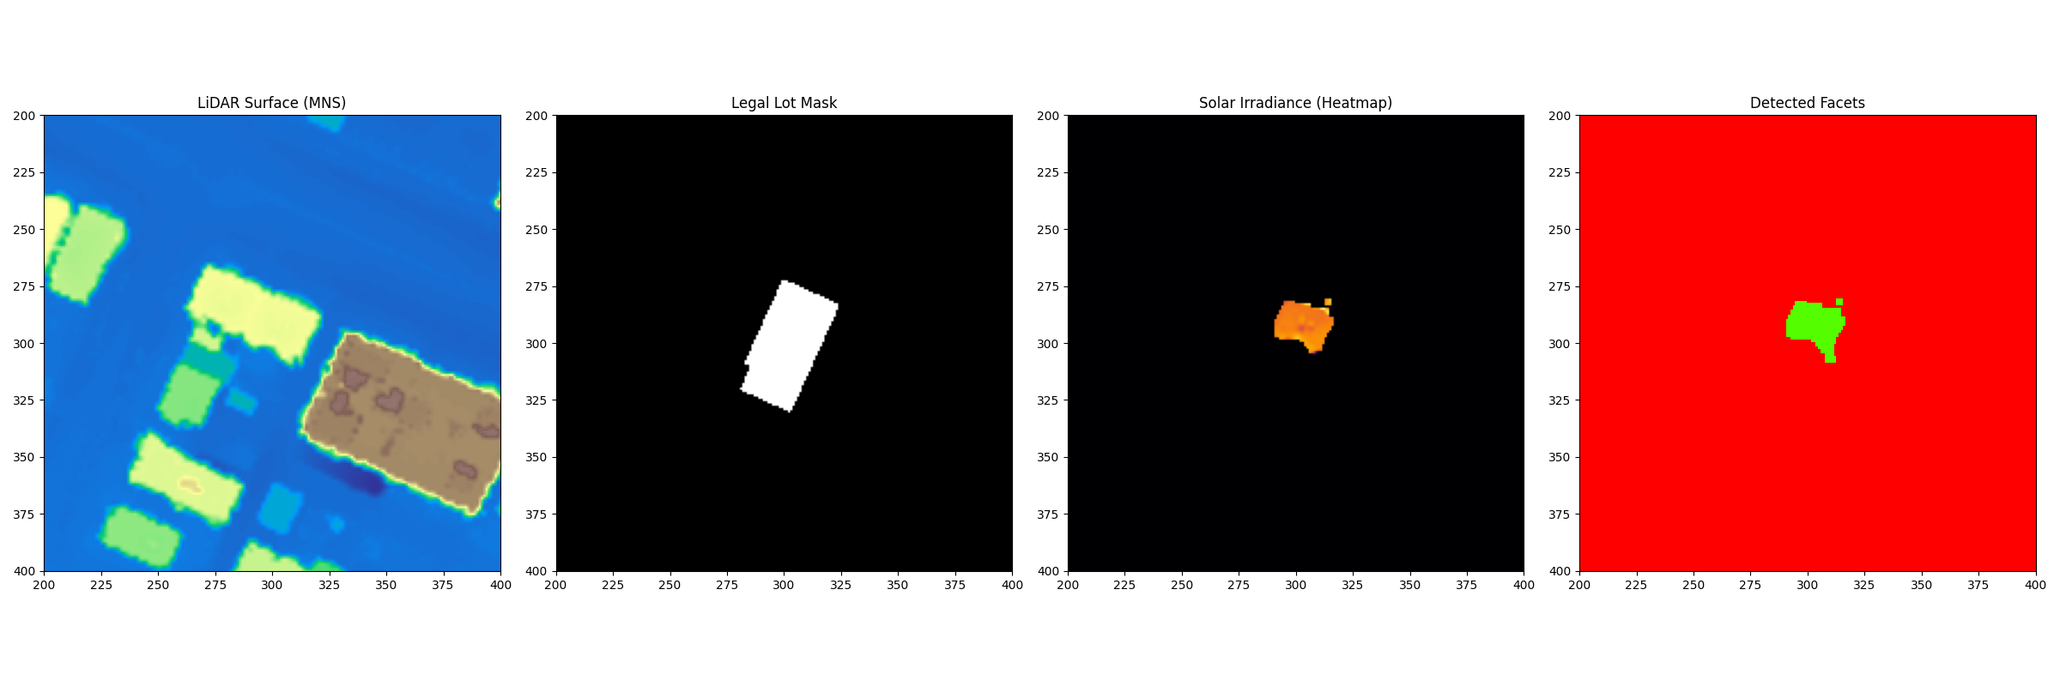
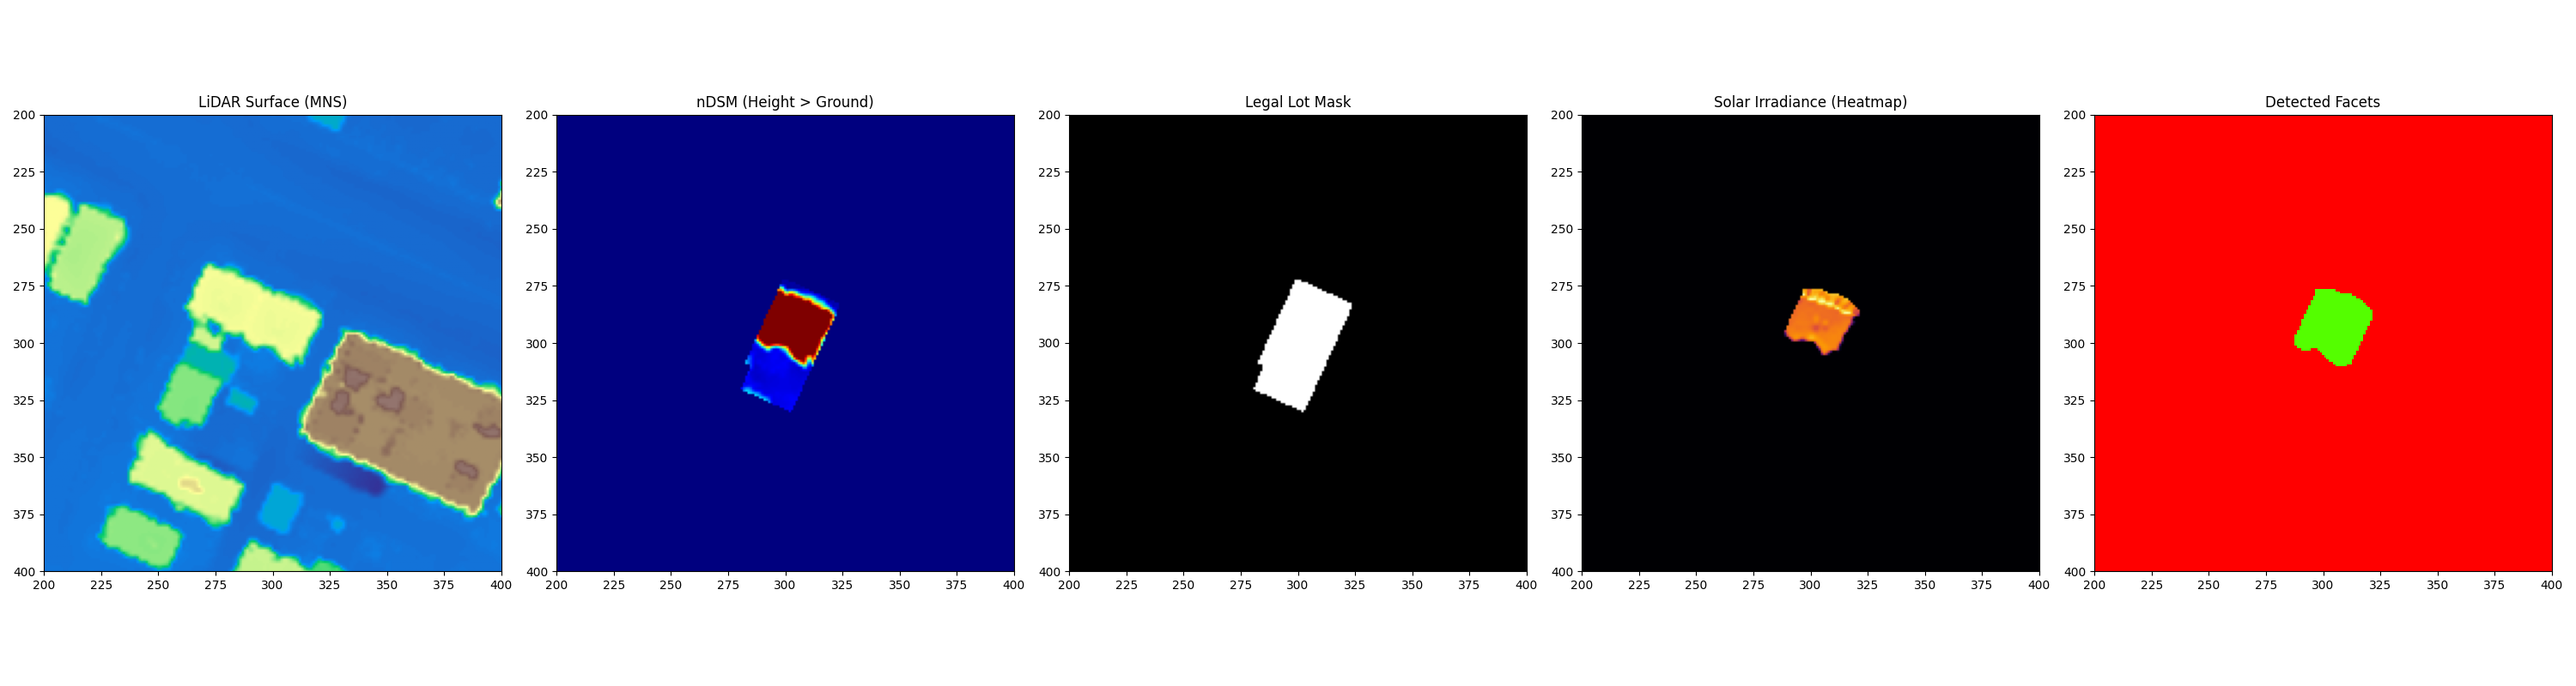
push

diff --git a/backend/app/services/solar_engine.py b/backend/app/services/solar_engine.py
@@ -73,84 +73,105 @@ class SolarEngine:
         
         return nx, ny, nz, slope
 
+    def _estimate_terrain(self, mns_grid, window_size_meters=30):
+        """
+        Creates a 'Rolling Ball' Digital Terrain Model (DTM).
+        This ignores houses and finds the underlying ground, even on slopes.
+        """
+        # Convert meters to pixels (e.g. 30m / 0.5m = 60 pixels)
+        pixels = int(window_size_meters / (self.raw_resolution / self.upsample_factor))
+        
+        # 1. Minimum Filter (Erosion): Finds the lowest pixel in the neighborhood
+        rough_terrain = scipy.ndimage.minimum_filter(mns_grid, size=pixels)
+        
+        # 2. Gaussian Filter: Smooths the blocky erosion artifacts
+        smooth_terrain = gaussian_filter(rough_terrain, sigma=pixels/4)
+        
+        return smooth_terrain
+
     def segment_solar_facets(self, mns, mnt, lot_mask):
         """
-        SCIENTIFIC SEGMENTATION (IMPROVED):
-        Optimized for coverage on both Flat (Montreal) and Pitched roofs.
+        FINAL STRATEGY: 'Seed & Grow' with Lot Constraints.
+        1. SEED: Find the safe, smooth center of the roof.
+        2. CONSTRAINT: Use Lot Mask + nDSM Height as strict walls.
+        3. GROW: Flood-fill the Seed until it hits the Constraint.
         """
-        # 1. Super-Resolution (Bilinear to preserve planar geometry)
+        # --- 1. UPSAMPLING & TERRAIN ---
+        # Upsample 1m -> 0.5m for better edge resolution
         mns_high = zoom(mns, self.upsample_factor, order=1)
-        mnt_high = zoom(mnt, self.upsample_factor, order=1)
         
-        # Resize lot mask (Nearest Neighbor to keep it sharp boolean)
-        if lot_mask is not None and lot_mask.shape != mns_high.shape:
-            lot_mask_high = zoom(lot_mask, self.upsample_factor, order=0)
+        # Dynamic Terrain (Fixes the "2.5m" hill issue)
+        mnt_high = self._estimate_terrain(mns_high, window_size_meters=30)
+        
+        # Upsample the Lot Mask (Nearest Neighbor to keep it sharp)
+        if lot_mask is not None:
+            if lot_mask.shape == mns_high.shape:
+                lot_mask_high = lot_mask
+            else:
+                lot_mask_high = zoom(lot_mask, self.upsample_factor, order=0)
         else:
-            lot_mask_high = lot_mask if lot_mask is not None else np.ones_like(mns_high, dtype=bool)
+            lot_mask_high = np.ones_like(mns_high, dtype=bool)
 
         cell_size = self.raw_resolution / self.upsample_factor
 
-        # 2. Physics Calculations
-        nx, ny, nz, slope = self.calculate_derivatives(mns_high, cell_size)
+        # --- 2. PHYSICS CALCS ---
+        # True Height above ground
         ndsm = mns_high - mnt_high
         ndsm = np.nan_to_num(ndsm, nan=0)
         
-        # 3. DEFINING A "ROOF" (Heuristic Filtering)
+        # STRICT MASKING: We only care about the lot's nDSM
+        # This zeros out neighbors so they don't appear in debug or logic
+        ndsm = ndsm * lot_mask_high
         
-        # A. Height Filter: Lowered slightly to catch garages/sheds
-        is_elevated = ndsm > 2.0 
-        
-        # B. Slope Filter (CRITICAL FIX): 
-        # Allow Flat Roofs (0 deg) up to steep roofs (75 deg = 1.3 rad)
-        # We REMOVED the lower bound (> 0.08) because Montreal has flat roofs!
-        is_roof_slope = slope < 1.3 
-        
-        # C. Roughness Filter (Relaxed):
-        # We relax the threshold from 0.05 to 0.12 to allow for shingles/chimneys
+        # Geometry
+        nx, ny, nz, slope = self.calculate_derivatives(mns_high, cell_size)
+
+        # --- 3. THE "SEED" (High Confidence) ---
+        # Find the "Soft Center" of the roof. We can be very strict here.
+        # It must be Flat-ish and Smooth to avoid trees.
         roughness = scipy.ndimage.generic_filter(nz, np.std, size=3)
-        is_smooth = roughness < 0.12
+        
+        is_high_enough = ndsm > 1.5  # 1.5m allows for sheds/decks
+        is_smooth_core = roughness < 0.12
+        is_flat_core = slope < 1.3
+        
+        seeds = is_high_enough & is_smooth_core & is_flat_core & lot_mask_high
+        
+        # DEBUG: Store for visualization/stats
+        self.last_is_elevated = is_high_enough
+        self.last_is_roof_slope = is_flat_core
+        self.last_is_smooth = is_smooth_core
+        self.last_viable_pixels = seeds
 
-        # Combine Filters
-        viable_pixels = is_elevated & is_roof_slope & is_smooth & lot_mask_high
+        # --- 4. THE "POTENTIAL" (The Container) ---
+        # This defines the maximum possible extent of the roof.
+        # It MUST be high, and it MUST be inside the lot.
+        # We don't care about roughness here (edges are rough).
+        potential_mask = (ndsm > 1.5) & lot_mask_high
 
-        # 4. MORPHOLOGICAL CLEANUP (The "Fill" Strategy)
-        # You need to import these at the top of your file:
-        # from scipy.ndimage import binary_closing, binary_fill_holes, binary_opening
+        # --- 5. GROWTH LOOP (Geodesic Reconstruction) ---
+        # Grow the Seeds until they hit the walls of 'potential_mask'
+        structure = generate_binary_structure(2, 2)
+        grown_mask = seeds.copy()
         
-        # Step A: CLOSING (Connect gaps)
-        # This joins pixels that are close together, fixing the "swiss cheese" effect
-        structure = generate_binary_structure(2, 2) # 8-connectivity
-        closed_mask = scipy.ndimage.binary_closing(viable_pixels, structure=structure, iterations=2)
-        
-        # Step B: FILL HOLES (Solidify)
-        # If we have a ring of valid pixels (e.g., roof edges), fill the inside
-        filled_mask = scipy.ndimage.binary_fill_holes(closed_mask)
-        
-        # Step C: OPENING (Only NOW do we remove noise)
-        # Remove tiny specks that are definitely not roofs
-        clean_mask = scipy.ndimage.binary_opening(filled_mask, structure=structure, iterations=1)
-        
-        # 5. CONNECTED COMPONENTS
-        labeled_facets, num_features = label(clean_mask)
-        
-        # Filter tiny fragments (< 1.5m^2)
-        # 1 pixel = 0.5 * 0.5 = 0.25m^2. So 6 pixels.
-        min_pixels = 6
-        final_mask = np.zeros_like(clean_mask)
-        
-        component_sizes = np.bincount(labeled_facets.ravel())
-        if len(component_sizes) > 1:
-            valid_labels = np.where(component_sizes > min_pixels)[0]
-            valid_labels = valid_labels[valid_labels > 0] # Exclude background
+        # Iterative Dilation
+        # We assume a max growth of ~40 pixels (20m), which covers most huge roofs.
+        for _ in range(40): 
+            dilated = scipy.ndimage.binary_dilation(grown_mask, structure=structure)
             
-            if len(valid_labels) > 0:
-                final_mask = np.isin(labeled_facets, valid_labels)
+            # The Magic Line: Clip growth to the Lot & Height immediately
+            new_mask = dilated & potential_mask 
+            
+            if np.array_equal(new_mask, grown_mask):
+                break
+            grown_mask = new_mask
 
-        # 6. Edge Cleanup
-        # If the mask spills over the lot line due to 'Closing', re-apply the lot_mask
-        final_mask = final_mask & lot_mask_high
+        # --- 6. CLEANUP ---
+        # Fill holes (skylights) and remove speckles
+        final_mask = scipy.ndimage.binary_fill_holes(grown_mask)
+        final_mask = scipy.ndimage.binary_opening(final_mask, structure=structure, iterations=1)
 
-        return final_mask, nx, ny, nz
+        return final_mask, nx, ny, nz, ndsm
 
     def calculate_irradiance(self, nx, ny, nz, mask):
         """

diff --git a/backend/scripts/debug_visualizer.py b/backend/scripts/debug_visualizer.py
@@ -137,7 +137,7 @@ def run_visual_test():
     
     # --- RUN SEGMENTATION ---
     # segment_solar_facets handles upscaling internally for mns/mnt
-    structures_mask, nx, ny, nz = engine.segment_solar_facets(mns_crop, mnt_crop, lot_mask)
+    structures_mask, nx, ny, nz, ndsm = engine.segment_solar_facets(mns_crop, mnt_crop, lot_mask)
 
     if np.sum(structures_mask) == 0:
         print("❌ No structures found on lot.")
@@ -166,7 +166,7 @@ def run_visual_test():
     
     # --- PLOTTING ---
     print("   -> Rendering Plots...")
-    fig, axes = plt.subplots(1, 4, figsize=(24, 8))
+    fig, axes = plt.subplots(1, 5, figsize=(30, 8))
     
     # Zoom Window (Center 100m x 100m)
     zoom_half = 100 # pixels (50m)
@@ -183,23 +183,29 @@ def run_visual_test():
     axes[0].set_xlim(x_min, x_max)
     axes[0].set_ylim(y_max, y_min) # Invert Y for image coords
     
-    # 2. Lot Mask
-    axes[1].imshow(lot_mask, cmap='gray')
-    axes[1].set_title("Legal Lot Mask")
+    # 2. nDSM (Height above Ground)
+    axes[1].imshow(ndsm, cmap='jet', vmin=0, vmax=10)
+    axes[1].set_title("nDSM (Height > Ground)")
     axes[1].set_xlim(x_min, x_max)
     axes[1].set_ylim(y_max, y_min)
     
-    # 3. Solar Scores (Heatmap)
-    axes[2].imshow(solar_scores, cmap='inferno')
-    axes[2].set_title("Solar Irradiance (Heatmap)")
+    # 3. Lot Mask
+    axes[2].imshow(lot_mask, cmap='gray')
+    axes[2].set_title("Legal Lot Mask")
     axes[2].set_xlim(x_min, x_max)
     axes[2].set_ylim(y_max, y_min)
     
-    # 4. Final Structure Segmentation
-    axes[3].imshow(structures_mask, cmap='prism', interpolation='nearest')
-    axes[3].set_title("Detected Facets")
+    # 4. Solar Scores (Heatmap)
+    axes[3].imshow(solar_scores, cmap='inferno')
+    axes[3].set_title("Solar Irradiance (Heatmap)")
     axes[3].set_xlim(x_min, x_max)
     axes[3].set_ylim(y_max, y_min)
+    
+    # 5. Final Structure Segmentation
+    axes[4].imshow(structures_mask, cmap='prism', interpolation='nearest')
+    axes[4].set_title("Detected Facets")
+    axes[4].set_xlim(x_min, x_max)
+    axes[4].set_ylim(y_max, y_min)
 
     plt.tight_layout()
     plt.savefig("debug_output.png")
